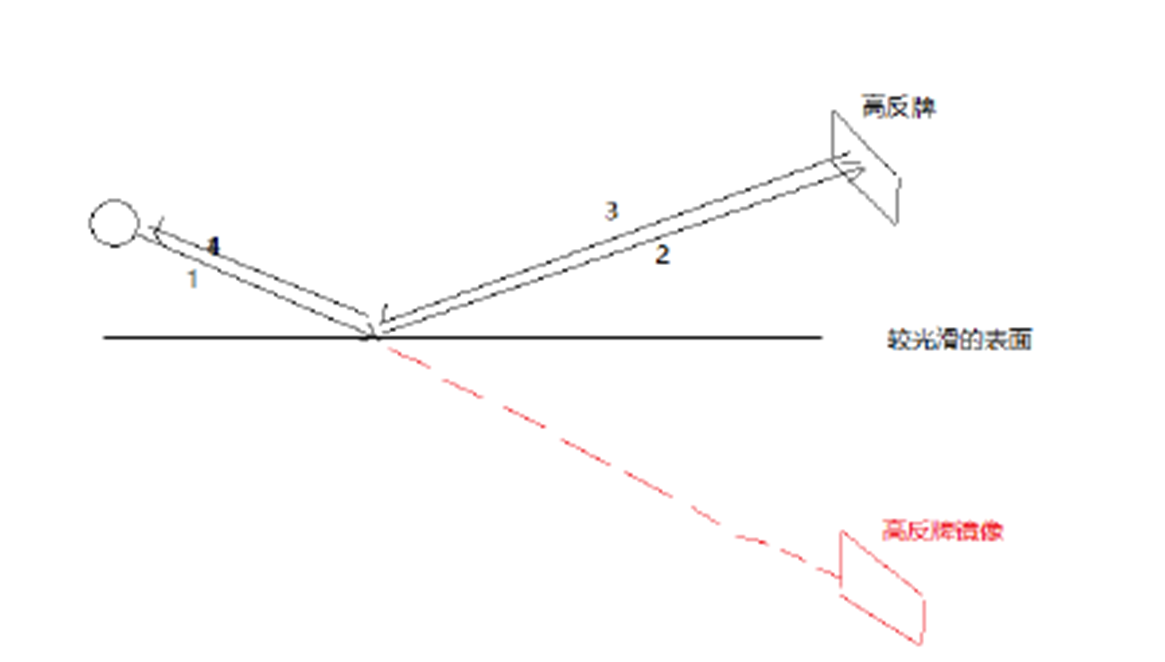
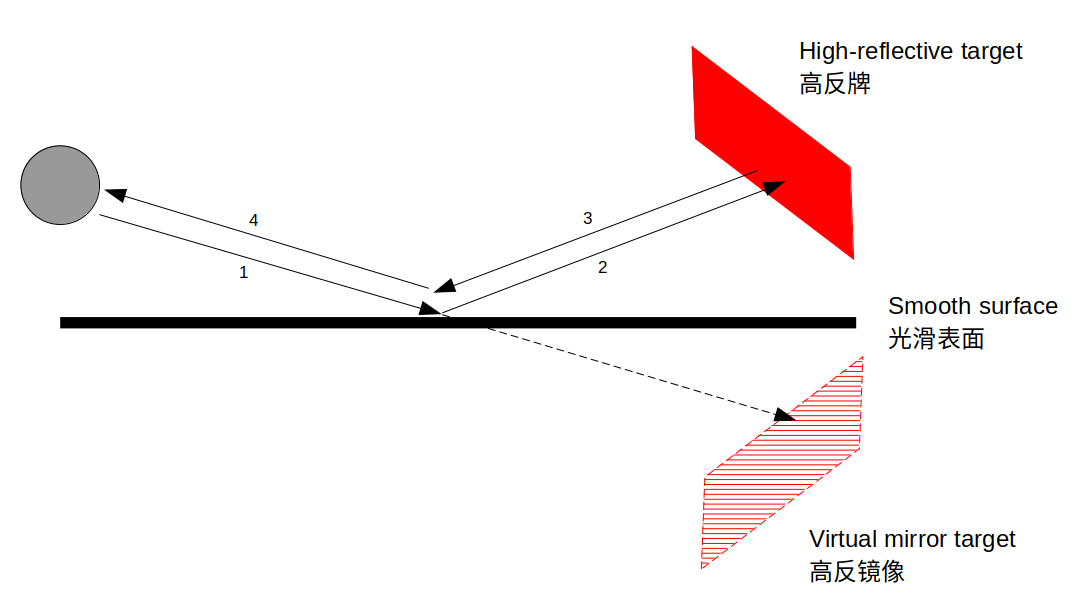
fix: align section overviews with actual content and de-localise EN figures
The homepage cards promised things the sections never covered - coordinate
systems, point cloud characteristics and per-product specifications were
advertised under LiDAR Technology but no document explains them, and the FAQ
card said nothing about what the FAQ actually contains. Rewrite all four
descriptions, in both locales, so they only name topics that really exist,
and fix the same over-claiming in the LiDAR Technology landing page and the
documentation map in the intro.

The English terminology page also leaked Chinese: two of the figures were
screenshots of Chinese formula legends, and one sentence referred to the
Chinese term outright. The legends are plain text, not maths, so replace them
with real list items in each language and drop the two image files; only the
bare formulas stay as images since they carry no words. Figure numbering
closes up from nine to seven on both sides.

The mirroring diagram in the English common-phenomena page was a hand-drawn
Chinese figure; swap in the bilingual version supplied with the new source
material, which is the first image that genuinely differs between locales.

diff --git a/src/pages/index.tsx b/src/pages/index.tsx
@@ -31,7 +31,7 @@ function useSections(): Section[] {
       description: translate({
         id: 'homepage.section.tech.desc',
         message:
-          'Scanning principles, point cloud characteristics, coordinate systems, and product specifications, including the terminology used in the datasheets and explanations of commonly seen phenomena.',
+          'Datasheet terminology — dToF ranging principle, accuracy vs. precision, FOV, angular resolution, range capability, and intensity — plus explanations of common phenomena such as point cloud mirroring, high-reflectivity blooming, glass detection, and window contamination.',
       }),
       to: '/docs/LiDAR Technology/lidar_technology',
     },
@@ -44,7 +44,7 @@ function useSections(): Section[] {
       description: translate({
         id: 'homepage.section.guides.desc',
         message:
-          'Connect the LiDAR, visualize the point cloud, configure parameters with the tools, and synchronize time.',
+          'Ethernet and 485 connection, Wireshark capture, point cloud visualization and export in RSView, parameter configuration through the web page and the LidarAssistant / M1P tools, and time synchronization.',
       }),
       to: '/docs/Getting Started/intro',
     },
@@ -57,7 +57,7 @@ function useSections(): Section[] {
       description: translate({
         id: 'homepage.section.dev.desc',
         message:
-          'Control API, IMU data parsing, the ROS / ROS2 SDK and driver, and SLAM integration.',
+          'RS-LiDAR control API, IMU data acquisition and parsing, FAST-LIO mapping integration, and the rslidar_sdk / rs_driver ROS / ROS2 packages with their configuration and installation guides.',
       }),
       to: '/docs/RS-LiDAR API/rs_lidar_api',
     },
@@ -70,7 +70,7 @@ function useSections(): Section[] {
       description: translate({
         id: 'homepage.section.faq.desc',
         message:
-          'The issues support gets asked about most often, with step-by-step fixes.',
+          'FastDDS shared memory under ROS2, recording point clouds as PCD, and the troubleshooting questions support gets asked most often about the SDK / driver and RSView.',
       }),
       to: '/docs/rslidar_sdk & rs_driver/fastdds_shared_memory',
     },

diff --git a/docs/LiDAR Technology/lidar_terminology.md b/docs/LiDAR Technology/lidar_terminology.md
@@ -57,8 +57,7 @@ weather conditions, system signal-to-noise ratio, and system calibration.
 ### Absolute Accuracy
 
 Absolute accuracy is the deviation between the average of multiple LiDAR
-measurements and the true value of the target. It is also called 准度
-(accuracy) in Chinese.
+measurements and the true value of the target.
 
 <figure className="doc-figure">
   <img src={require('./images/terminology/image_1.png').default} alt="Illustration of absolute accuracy" className="doc-figure-img" />
@@ -72,10 +71,9 @@ The formula and its explanation are as follows:
   <figcaption className="doc-figure-caption">Figure 3: Absolute accuracy formula</figcaption>
 </figure>
 
-<figure className="doc-figure">
-  <img src={require('./images/terminology/image_5.png').default} alt="Formula for absolute accuracy deviation" className="doc-figure-img" />
-  <figcaption className="doc-figure-caption">Figure 4: Deviation of the mean value</figcaption>
-</figure>
+- **μ** — the mean ranging deviation, used to characterise absolute accuracy;
+- **R̄** — the average of the individual ranging results;
+- **R₍true₎** — the true distance, or the standard reference distance.
 
 The closer μ is to 0, the higher the accuracy.
 
@@ -85,15 +83,22 @@ Precision describes the stability of repeated measurements under the same
 conditions, usually characterised by the standard deviation σ. The smaller
 σ is, the smaller the dispersion of the measurements.
 
-<figure className="doc-figure">
-  <img src={require('./images/terminology/image_8.png').default} alt="Formula for relative precision" className="doc-figure-img" />
-  <figcaption className="doc-figure-caption">Figure 5: Relative precision formula</figcaption>
-</figure>
+The formula and its explanation are as follows:
 
 <figure className="doc-figure">
-  <img src={require('./images/terminology/image.png').default} alt="Formula for the standard deviation" className="doc-figure-img" />
-  <figcaption className="doc-figure-caption">Figure 6: Standard deviation</figcaption>
+  <img src={require('./images/terminology/image_8.png').default} alt="Formula for relative precision" className="doc-figure-img" />
+  <figcaption className="doc-figure-caption">Figure 4: Relative precision formula</figcaption>
 </figure>
+
+- **σ** — the standard deviation, used to characterise the dispersion of
+  multiple measurements, i.e. measurement stability / repeatability;
+- **Rᵢ** — the i-th measurement;
+- **R̄** — the average of all measurements;
+- **Rᵢ − R̄** — the deviation of the i-th measurement from the mean;
+- **(Rᵢ − R̄)²** — the squared deviation, which keeps positive and negative
+  deviations from cancelling each other out;
+- **Σ** — the sum of the squared deviations over all measurements;
+- **N** — the number of measurements.
 
 ### An Intuitive Reading of Accuracy and Precision
 
@@ -115,7 +120,7 @@ systematic deviation.
 
 <figure className="doc-figure">
   <img src={require('./images/terminology/image_7.png').default} alt="Illustration comparing accuracy and precision" className="doc-figure-img" />
-  <figcaption className="doc-figure-caption">Figure 7: Accuracy vs. precision</figcaption>
+  <figcaption className="doc-figure-caption">Figure 5: Accuracy vs. precision</figcaption>
 </figure>
 
 ## Field of View (FOV)
@@ -128,7 +133,7 @@ For example, the E1R LiDAR has an FOV of 120° × 90° (HFOV 120°, VFOV 90°).
 
 <figure className="doc-figure">
   <img src={require('./images/terminology/image_2.png').default} alt="Diagram of horizontal and vertical field of view" className="doc-figure-img" />
-  <figcaption className="doc-figure-caption">Figure 8: Field of view</figcaption>
+  <figcaption className="doc-figure-caption">Figure 6: Field of view</figcaption>
 </figure>
 
 ## Angular Resolution
@@ -144,7 +149,7 @@ of a higher point rate, more complex scan control, or a lower frame rate.
 
 <figure className="doc-figure">
   <img src={require('./images/terminology/image_4.png').default} alt="Diagram of angular resolution" className="doc-figure-img" />
-  <figcaption className="doc-figure-caption">Figure 9: Angular resolution</figcaption>
+  <figcaption className="doc-figure-caption">Figure 7: Angular resolution</figcaption>
 </figure>
 
 ## Range Capability

diff --git a/docs/Getting Started/intro.md b/docs/Getting Started/intro.md
@@ -23,8 +23,8 @@ For AiryLite units using the 485 / serial interface instead of Ethernet, see [Ai
 | --- | --- |
 | **LiDAR Technology** | LiDAR terminology — ranging principle, accuracy vs. precision, FOV, angular resolution, range capability — and explanations of commonly seen phenomena such as point cloud mirroring and high-reflectivity blooming |
 | **Operation Guides** | Physical and network connection, packet capture, serial (485) setup, RSView visualization and export, LiDAR web page, LidarAssistant (E / EM platforms), M1P tool, time synchronization |
-| **Developer Resources** | RS-LiDAR API control library, IMU data acquisition and parsing, ROS / ROS2 SDK and driver, FAST-LIO mapping |
-| **FAQ** | ROS2 frame rate drop, recording point clouds as PCD, SDK / driver and RSView troubleshooting |
+| **Developer Resources** | RS-LiDAR API control library, IMU data acquisition and parsing, FAST-LIO mapping, rslidar_sdk / rs_driver ROS / ROS2 packages |
+| **FAQ** | FastDDS shared memory under ROS2, recording point clouds as PCD, SDK / driver and RSView troubleshooting |
 
 ## Additional resources
 

diff --git a/i18n/zh-Hans/docusaurus-plugin-content-docs/current/Getting Started/intro.md b/i18n/zh-Hans/docusaurus-plugin-content-docs/current/Getting Started/intro.md
@@ -23,8 +23,8 @@ sidebar_position: 1
 | --- | --- |
 | **激光雷达技术** | 基础名词解析——测距原理、准度与精度、视场角、角分辨率、测距能力，以及点云镜像、高反膨胀等常见现象解释 |
 | **操作指南** | 物理连接与网络配置、抓包、串口（485）连接、RSView 可视化与导出、激光雷达 Web 端、LidarAssistant（E / EM 平台）、M1P 小工具、时间同步 |
-| **开发者资料汇总** | RS-LiDAR API 控制库、IMU 数据获取与解析、ROS / ROS2 驱动与 SDK、FAST-LIO 建图 |
-| **常见问题与解答** | ROS2 帧率下降、点云录制为 PCD、驱动 / SDK 与 RSView 排障 |
+| **开发者资料汇总** | RS-LiDAR API 控制库、IMU 数据获取与解析、FAST-LIO 建图、rslidar_sdk / rs_driver 的 ROS / ROS2 驱动 |
+| **常见问题与解答** | ROS2 下的 FastDDS 共享内存、点云录制为 PCD、驱动 / SDK 与 RSView 排障 |
 
 ## 更多资源
 

diff --git a/docs/LiDAR Technology/lidar_technology.md b/docs/LiDAR Technology/lidar_technology.md
@@ -5,9 +5,8 @@ sidebar_position: 1
 
 # LiDAR Technology
 
-This section covers the product and technology background of RoboSense LiDAR:
-scanning principles, point cloud characteristics, coordinate systems, and the
-specifications of each product line.
+This section explains the technology background you need in order to read a
+RoboSense datasheet and to interpret what you see in a point cloud.
 
 This section includes:
 

diff --git a/i18n/zh-Hans/docusaurus-plugin-content-docs/current/LiDAR Technology/lidar_technology.md b/i18n/zh-Hans/docusaurus-plugin-content-docs/current/LiDAR Technology/lidar_technology.md
@@ -5,8 +5,7 @@ sidebar_position: 1
 
 # 激光雷达技术
 
-本板块介绍速腾聚创激光雷达的产品与技术背景：扫描原理、点云特性、坐标系定义，
-以及各产品线的性能规格。
+本板块介绍读懂速腾聚创激光雷达规格书、以及理解点云中各类现象所需的技术背景。
 
 本板块包含：
 
